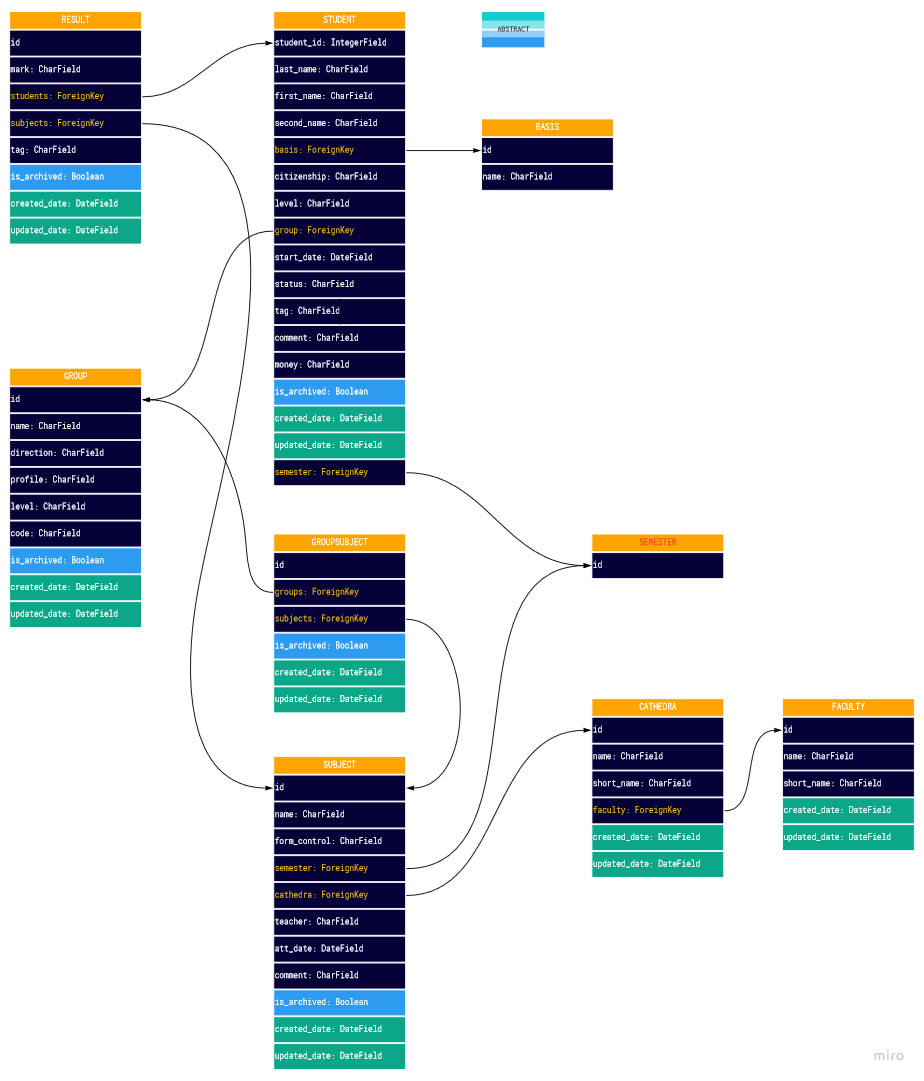
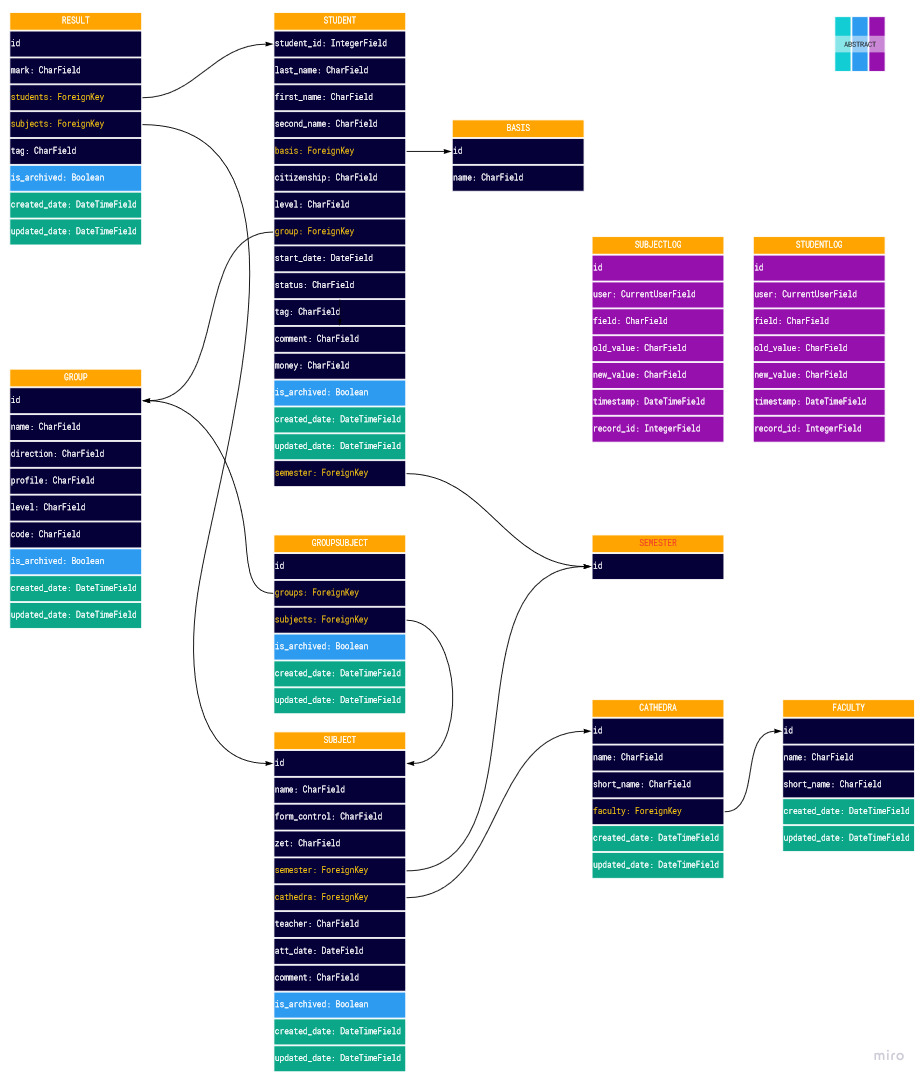
update README and project diagram

diff --git a/README.md b/README.md
@@ -1,5 +1,7 @@
 ## Рейтинг успеваемости студентов университета
 
+[![CodeQL](https://github.com/polnikov/rating/actions/workflows/codeql-analysis.yml/badge.svg)](https://github.com/polnikov/rating/actions/workflows/codeql-analysis.yml)
+
 Рейтинг сформирован на базе учебной траектории студентов [СПбГАСУ](https://spbgasu.ru).
 
 ### **Основной функционал:**
@@ -8,10 +10,11 @@
 - создание дисциплины с её характеристиками (форма контроля, преподаватель и прочие)
 - назначение группам дисциплин в каждом из семестров в соответствии с учебным планом
 - статистика по контингенту (численность, стипендия и прочие)
+- перевод студентов по курсам
 - формирование списка студентов для назначения стипендии по результатам учебного семестра
 - формирование списков академических задолженностей (по студентам и дисциплинам)
 - вычисление среднего балла студента по семестрам и общего
-- импорт данных из CSV файла (кафедры, студенты, дисциплины, назначения дисциплин)
+- импорт данных из CSV файла (кафедры, студенты, дисциплины, назначения дисциплин, ведомости из 1с с оценками)
 
 ### **Предварительные настройки через панель администратора:**
 - создание основ обучения (Бюджет, Контракт и прочие)
